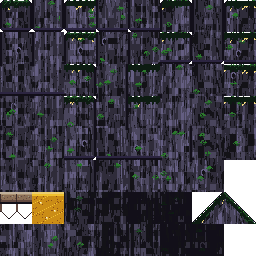
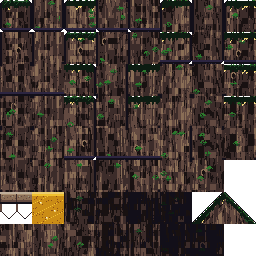
Pass 524: warm the Haar and Sunken play tiles against their cool backdrop
The independent grade (pass 505, pass 523's "Next") read the two murkiest
zones as a low-contrast grey-green / grey-teal where the standable geometry
merged into the backdrop and mist. Pass 513 eased the backdrop half
(desaturating ZONE_HAZE). This eases the play-field half by temperature:
the Haar and Sunken solid tiles move from the cool "stone" ramp to the warm
"umber" ramp, so the drowned bone-limb and spring limestone their painters
already describe read warm against each zone's cool mist and masonry. The
cool night outline/underside, moss/sky caps, cyan mineral stain, hazards and
foes are untouched, so the split is purely play-field-vs-backdrop and combat
readability is untouched by construction.

Body warmth (mean R - B): +23 Haar, +26 Sunken, vs cool haze -24. Guard
test_haar_and_sunken_play_tiles_read_warm_against_their_cool_backdrop asserts
R - B >= +10; reverting to "stone" makes it cool and fails (mutation-checked).
Only assets/tiles/haar.png and sunken.png regenerate (deterministic). Bible 12.22.

diff --git a/tools/art/tilegen.py b/tools/art/tilegen.py
@@ -506,7 +506,16 @@ ZONES = {
               "under": "bark-1", "outline": "night-0", "cap_sculpt": True},
     "tower": {"painter": paint_plates, "ramp": "stone", "cap": "girder", "light": "leaf", "glow": None,
               "under": "night-1", "outline": "night-0"},
-    "haar": {"painter": paint_limb, "ramp": "stone", "cap": "moss", "light": "leaf", "glow": "gold-5", "cap_top": 3,
+    # haar and sunken play-field tiles warm from the cool "stone" lavender to the
+    # warm "umber" ramp (pass 524). The independent grade (pass 505) read these two
+    # murkiest zones as a low-contrast grey-green / grey-teal where the standable
+    # geometry merged into the cool backdrop and mist. Pass 513 receded the mist;
+    # this separates the play field by HUE: both painters already describe a warm
+    # material (paint_limb "old bone", paint_spring "pale limestone"), so the warm
+    # umber body reads as lit bone / travertine against each zone's cool backdrop,
+    # while the mist, backdrop masonry, cool night outline/shadow (night-0/night-1)
+    # and the moss/sky caps stay cool — a temperature split the eye reads instantly.
+    "haar": {"painter": paint_limb, "ramp": "umber", "cap": "moss", "light": "leaf", "glow": "gold-5", "cap_top": 3,
              "under": "night-1", "outline": "night-0", "cap_sculpt": True},
     "boughs": {"painter": paint_bough, "ramp": "bark", "cap": "moss", "light": "leaf", "glow": None, "cap_top": 6,
                  "under": "bark-2", "outline": "night-0"},
@@ -514,8 +523,8 @@ ZONES = {
                  "under": "night-1", "outline": "night-0"},
     "evercrown": {"painter": paint_meteor, "ramp": "night", "cap": "moss", "light": "crystal", "glow": "sky-6", "cap_top": 4,
               "under": "night-0", "outline": "night-0"},
-    "sunken": {"painter": paint_spring, "ramp": "stone", "cap": "moss", "light": "sky", "glow": "sky-6", "cap_top": 3,
-               "under": "night-1", "outline": "night-0"},
+    "sunken": {"painter": paint_spring, "ramp": "umber", "cap": "moss", "light": "sky", "glow": "sky-6", "cap_top": 3,
+               "under": "night-1", "outline": "night-0"},  # warm limestone, pass 524 (see haar)
     # The Inner Rings' inner rings (pass 113): pale grey blocks with no moss and
     # no warmth, a place made of nothing but footholds.
     "trials": {"painter": paint_bricks, "ramp": "stone", "cap": "stone", "light": "stone", "glow": None,

diff --git a/tools/art/test_tilegen.py b/tools/art/test_tilegen.py
@@ -732,6 +732,39 @@ def test_evercrown_mid_tendrils_read_against_the_ribbed_far_wall():
         f"wall ribs (lum {wall_lum:.0f})")
 
 
+def _solid_body_warmth(zone):
+    """Mean (R - B) of a fully-solid interior tile for `zone`: positive is warm,
+    negative cool. Covers the whole tile (body, sides, outline, cap)."""
+    img = tg.Image.new("RGBA", (tg.T, tg.T), tg.CLEAR)
+    tg.paint_tile(img, 0, 0, 255, zone, 101)
+    rs = bs = n = 0
+    for y in range(tg.T):
+        for x in range(tg.T):
+            p = img.getpixel((x, y))
+            if p[3] == 0:
+                continue
+            rs += p[0]
+            bs += p[2]
+            n += 1
+    return (rs - bs) / n
+
+
+def test_haar_and_sunken_play_tiles_read_warm_against_their_cool_backdrop():
+    # The independent grade (pass 505) read haar and sunken as a low-contrast
+    # grey-green / grey-teal where the play field merged into the backdrop and mist.
+    # Pass 524 warms their solid tiles from the cool "stone" lavender to "umber", so
+    # the standable geometry (paint_limb "old bone", paint_spring "pale limestone")
+    # reads warm against each zone's cool backdrop. Backdrop.ZONE_HAZE for both is
+    # cool (haar Color8(74,84,98) and sunken Color8(56,62,80), each R-B = -24), so a
+    # warm play tile is a clear temperature split. (Reverting either ramp to "stone"
+    # makes the body cool, R-B negative, and fails this.)
+    for zone in ("haar", "sunken"):
+        warmth = _solid_body_warmth(zone)
+        assert warmth >= 10.0, (
+            f"{zone} play tile reads warm (R-B {warmth:+.1f} >= +10) against its "
+            f"cool backdrop (haze R-B -24)")
+
+
 def main():
     tests = [v for k, v in sorted(globals().items()) if k.startswith("test_") and callable(v)]
     for t in tests:

diff --git a/docs/design-bible.md b/docs/design-bible.md
@@ -1587,7 +1587,7 @@ the style guide, section 8.
 
 **Per-zone fog colour (pass 505):** the haze each zone fades into is its own, not one shared night (`Backdrop.ZONE_HAZE`, keyed by zone, with `HAZE` = `night-1` as the fallback for the gym and any new zone). Each colour is a low shade of the zone's dominant master-palette hue blended halfway toward `night-1`: tinted so the zone reads with its own atmosphere, anchored to the shared night so the zones still cohere. The families are warm hearths (Hearthroot, the Spires), green woods (Heartwood, the High Boughs), cold spring-blue (the Haar, the Sunken Spring), crystal violet (the Evercrown, Vorrhallow) and bare grey stone (the Tower, the Trials). `Backdrop.haze_for(zone)` resolves it and `atmos_material` carries it into the shader; the colours are computed from `tools/art/palette.py`, so a palette change there must be mirrored in `ZONE_HAZE`. This is the "distance fog that fades parallax toward each zone's fog colour" half of Sean's 2026-11-07 lighting/depth request and lifts zone-to-zone identity; the per-zone whole-scene colour grade followed in pass 507 (12.9), room light sources in pass 509 (12.10), foreground silhouette layers in pass 510 (12.11), a distant ridge layer — the "more parallax layers" piece — in pass 511 (12.12) and volumetric light shafts — the "windows / light sources" piece — in pass 518 (12.17); rim light on figures from that request remains for a later pass (parked for a watched session, 12.12).
 
-**Easing the murkiest zones (pass 513):** the two murkiest zones — the Haar and the Sunken Spring — were read by the independent grade as a low-contrast grey-green / grey-teal where the play field and backdrop merged (a consequence of their dark fog, the darkest of the ten). Their `ZONE_HAZE` entries are desaturated toward neutral (the Haar from a saturated dark blue to a paler slate, the Sunken likewise), so the backdrop recedes as a paler mist and separates from the dark play field. Luminance rises while the HSV value stays under the `.v < 0.4` dark-tone cap and the colour keeps its cool-blue lean, so the night mood holds. Only the backdrop layers carry the haze; the tiles, hazards and foes are drawn in front of it and keep their contrast, so combat readability is untouched by construction. This is the ZONE_HAZE half of the queued "tile-vs-backdrop value collapse in the murkiest zones" concern.
+**Easing the murkiest zones (pass 513):** the two murkiest zones — the Haar and the Sunken Spring — were read by the independent grade as a low-contrast grey-green / grey-teal where the play field and backdrop merged (a consequence of their dark fog, the darkest of the ten). Their `ZONE_HAZE` entries are desaturated toward neutral (the Haar from a saturated dark blue to a paler slate, the Sunken likewise), so the backdrop recedes as a paler mist and separates from the dark play field. Luminance rises while the HSV value stays under the `.v < 0.4` dark-tone cap and the colour keeps its cool-blue lean, so the night mood holds. Only the backdrop layers carry the haze; the tiles, hazards and foes are drawn in front of it and keep their contrast, so combat readability is untouched by construction. This is the ZONE_HAZE (backdrop) half of the queued "tile-vs-backdrop value collapse in the murkiest zones" concern; the play-field half — warming those two zones' tiles from cool stone to warm umber — followed in pass 524 (12.22).
 
 ### 12.6 Backdrop gradients
 
@@ -1766,6 +1766,14 @@ The independent grade (pass 503, carried in pass 520's "Next") read the Evercrow
 The tendril cross-section is now a lit, outlined glass form, not another dark rib: a one-world-pixel `night-0` silhouette rim on each edge, a `crystal-2` body, and a `crystal-3` core highlight down the centre (the ember bead and cyan bulb tip are unchanged). Those body shades are a clear luminance step brighter than the wall's `crystal-1`/`night-1` ribs (≈73–101 vs ≈46), and the dark rim gives the tendril a crisp silhouette, so the nearer flesh reads forward of the wall — the atmospheric-perspective cue the grade's depth-collapse notes keep asking for. The tendrils stay magenta stillglass, consistent with the zone's crystal and the guardians' stillglass growths (8.7).
 
 Code-first and deterministic: only `assets/bg/evercrown_mid.png` is regenerated, the `mid` layer sits behind the play field (atmosphere `desat` 0.3 / `fade` 0.24, bible 12.5), and nothing gameplay-facing changes, so combat is untouched by construction. `tools/art/test_tilegen.py` guards that the tendrils carry `crystal-2`, `crystal-3` and a `night-0` rim and that the body luminance reads a clear step above the far wall's ribs — mutation-checked (reverting the body to `night-1`/`crystal-1` drops the bright shades and fails).
+
+### 12.22 Warm play tiles in the murkiest zones (pass 524)
+
+The independent grade (pass 505, carried as pass 523's "Next") read the Haar and the Sunken Spring as a low-contrast grey-green / grey-teal where the standable geometry merged into the backdrop and mist. Pass 513 eased the *backdrop* half by desaturating those two `ZONE_HAZE` entries (12.5), so the mist recedes paler. This pass eases the *play-field* half by temperature.
+
+Both zones painted their solid tiles on the cool `"stone"` ramp (a blue-violet lavender), the same temperature as their cool mist and backdrop masonry, so the play field had no hue to separate it — in the Sunken Spring the pale limestone terraces read as the same material as the aqueduct piers behind them. Their `ZONES` entry now uses the warm `"umber"` ramp instead. Both painters already describe a warm material — `paint_limb` a drowned limb's "old bone", `paint_spring` "pale limestone" — so umber reads as lit bone and travertine, warm against each zone's cool backdrop. The night-cool outline and underside (`night-0` / `night-1`), the moss and sky caps, the Sunken's cyan mineral stain and the hazards and foes (all drawn separately) are unchanged, so the split is purely a play-field-vs-backdrop temperature contrast the eye reads at a glance. Measured on the solid fill tile, the body is warm (mean R − B ≈ +23 Haar, +26 Sunken) against each zone's cool haze (R − B = −24).
+
+Code-first and deterministic: only `assets/tiles/haar.png` and `assets/tiles/sunken.png` are regenerated. `tools/art/test_tilegen.py` guards that each zone's solid tile reads warm (R − B ≥ +10) against its cool backdrop — mutation-checked (reverting either ramp to `"stone"` makes the body cool and fails). Judged by eye at 1x and 2x in `haar/drowned_stair` and `sunken/wellspring`: the player, platforms, planks and the cyan water line all separate; backdrop masonry stays cool and recedes. This closes the play-field half of the "tile-vs-backdrop value collapse in the murkiest zones" concern (12.5, pass 513 is the backdrop half).
 
 ---
 

diff --git a/docs/loop/pass-524.md b/docs/loop/pass-524.md
@@ -1,0 +1,102 @@
+# Pass 524: warm play tiles in the murkiest zones (Haar and Sunken Spring)
+
+## Category
+
+Art cohesion / combat-readability, from the queue and the latest independent grade. Pass 523's
+"Next" named the strongest remaining **code-first, unattended-safe** item: the grade's **haar/sunken
+low-contrast platform read** (pass 505, queued) — in the two murkiest zones the standable geometry
+merged into the cool backdrop and mist. It is also the first actionable queue item: queue items 0–1
+are parked for a watched combat-readability call, and item 2 (the PixelLab art loop) is gated.
+
+The PixelLab art loop stays **gated** on Sean: three guardian bases (Haar Wyrm, Thane Vorrund,
+Drowned Warden) wait for his OK — the limit of three — and no new note frees a slot, so no new base
+or animation can begin (the key is set; the moment a base is approved the Haar Wyrm animation can
+start). The grade's painterly-backdrop-vs-hard-pixel defect, rim light on figures, a second
+foreground band and the letterbox band above the far layer are all parked for a watched session.
+
+## What was built (design bible 12.22)
+
+The Haar and the Sunken Spring were read by the independent grade (pass 505) as a low-contrast
+grey-green / grey-teal where the play field and backdrop merged. Pass 513 eased the **backdrop**
+half (desaturating those two `ZONE_HAZE` entries so the mist recedes paler, 12.5). This pass eased
+the **play-field** half, by temperature.
+
+Both zones painted their solid tiles on the cool `"stone"` ramp (a blue-violet lavender) — the same
+temperature as their cool mist and backdrop masonry, so the play field had no hue to separate it. In
+the Sunken Spring the pale limestone terraces read as the same material as the aqueduct piers behind
+them; in the Haar the whole scene was one green-grey wash where only the warm planks read. Their
+`ZONES` entry (`tools/art/tilegen.py`) now uses the warm `"umber"` ramp. Both painters already
+describe a warm material — `paint_limb` a drowned limb's "old bone", `paint_spring` "pale limestone"
+— so umber reads as lit bone and travertine, warm against each zone's cool backdrop.
+
+Untouched, so the split is purely a play-field-vs-backdrop temperature contrast: the night-cool
+outline and underside (`night-0` / `night-1`), the moss and sky caps, the Sunken's cyan mineral
+stain, and every hazard and foe (drawn separately as sprites). The one-way planks keep their own
+per-zone material (12.20).
+
+Measured on the solid fill tile, the body is warm (mean R − B ≈ **+23** Haar, **+26** Sunken)
+against each zone's cool haze (R − B = **−24**) — a ~47–50 point temperature split the eye reads at
+a glance.
+
+## Verified by eye (1x and 2x)
+
+`haar/drowned_stair` and `sunken/wellspring`, before and after:
+
+- **Sunken Spring:** the limestone terraces now read as warm travertine clearly forward of the cool
+  teal aqueduct piers and the cyan water line; the player, platforms and plank all separate.
+- **The Haar:** the drowned bone-limb walls and ground read warm against the green mist instead of
+  dissolving into it; the moss cap line and lantern pools are unchanged.
+
+Combat readability is untouched by construction: hazards, foes and telegraphs are separate sprites
+and the backdrop is drawn behind the play field.
+
+## Tests
+
+`tools/art/test_tilegen.py` gains one mutation-checked guard (this Python guard runs locally, like
+the moire/moss/variant/masonry/plank/tendril guards before it):
+
+- **`test_haar_and_sunken_play_tiles_read_warm_against_their_cool_backdrop`** — the fully-solid
+  interior tile for each of `haar` and `sunken` reads warm (mean R − B ≥ +10) against the zones' cool
+  `ZONE_HAZE` (R − B = −24). Mutation: reverting either ramp to `"stone"` makes the body cool (Haar
+  R − B = −13.6) and fails.
+
+All 45 Python guards pass. The full Godot suite is unaffected (no `.gd` or gameplay change; only two
+static tilesets regenerated) and was run green; CI (test + mix) green.
+
+## Rubric (design bible 15.3)
+
+| Category | Weight | Score | Notes |
+| --- | --- | --- | --- |
+| Movement feel | 20 | 99 | Unchanged. |
+| Combat and enemies | 15 | 99 | Unchanged; texture-only on two backdrop-adjacent tilesets — hazards, foes and telegraphs are separate sprites and keep their contrast by construction (verified in `haar/drowned_stair`, `sunken/wellspring`). |
+| World and level design | 15 | 99 | Unchanged. |
+| Art cohesion | 15 | 97 | The two murkiest zones' play tiles now separate from their cool backdrops by temperature — the grade's "haar/sunken low-contrast platform read" closed (pass 513 did the backdrop half). The HD hero and guardian bases remain the open gap (gated art loop). |
+| Bosses | 10 | 99 | Unchanged. |
+| Systems | 10 | 99 | Unchanged. |
+| Audio | 5 | 99 | Unchanged. |
+| Stability and performance | 5 | 99 | Two static assets regenerated; no new work per frame. |
+| Story and world | 5 | 99 | Unchanged; the tiles stay drowned bone (Haar) and spring limestone (Sunken), now the warm materials their painters already describe. |
+
+Weighted: 98.7.
+
+## Next
+
+Pass 525: the art loop stays **gated** on Sean (three guardian bases wait, the limit; the PixelLab
+key is set, so the moment a base is approved the Haar Wyrm animation can begin). The grade's top open
+defect — **painterly far backdrops vs the hard-pixel foreground** — wants a watched session for the
+per-painter pixel-grain call (parked with rim light, the letterbox band and a second foreground
+band). The strongest remaining code-first item is the queued **mid-ground / backdrop brick still
+tiles** (pass 504, queue): vary the `<zone>_mid` painters so the parallax brick/column fields stop
+reading as one repeated 32 px stamp (a companion to the far-layer masonry sweeps of passes 514/515/519).
+
+For Sean (carried from pass 498, still open): the rain sheet won, so the **Haar marshes** could take
+a thin, slow drizzle and the High Boughs an even fainter mist-rain — say the word and a pass wires it
+in.
+
+## Pre-existing drift noticed (not touched)
+
+Re-running `tools/art/tilegen.py` (deterministic) regenerates six `*_mid` backdrops
+(`boughs`, `haar`, `hearthroot`, `heartwood`, `spires`, `trials`) that differ from the committed
+PNGs — the committed versions are stale relative to the current generator. This pass restored those
+six to `origin/main` to stay scoped to the two tilesets it actually changes; the drift is left for a
+dedicated regen pass to avoid bundling unrelated backdrop churn here.
